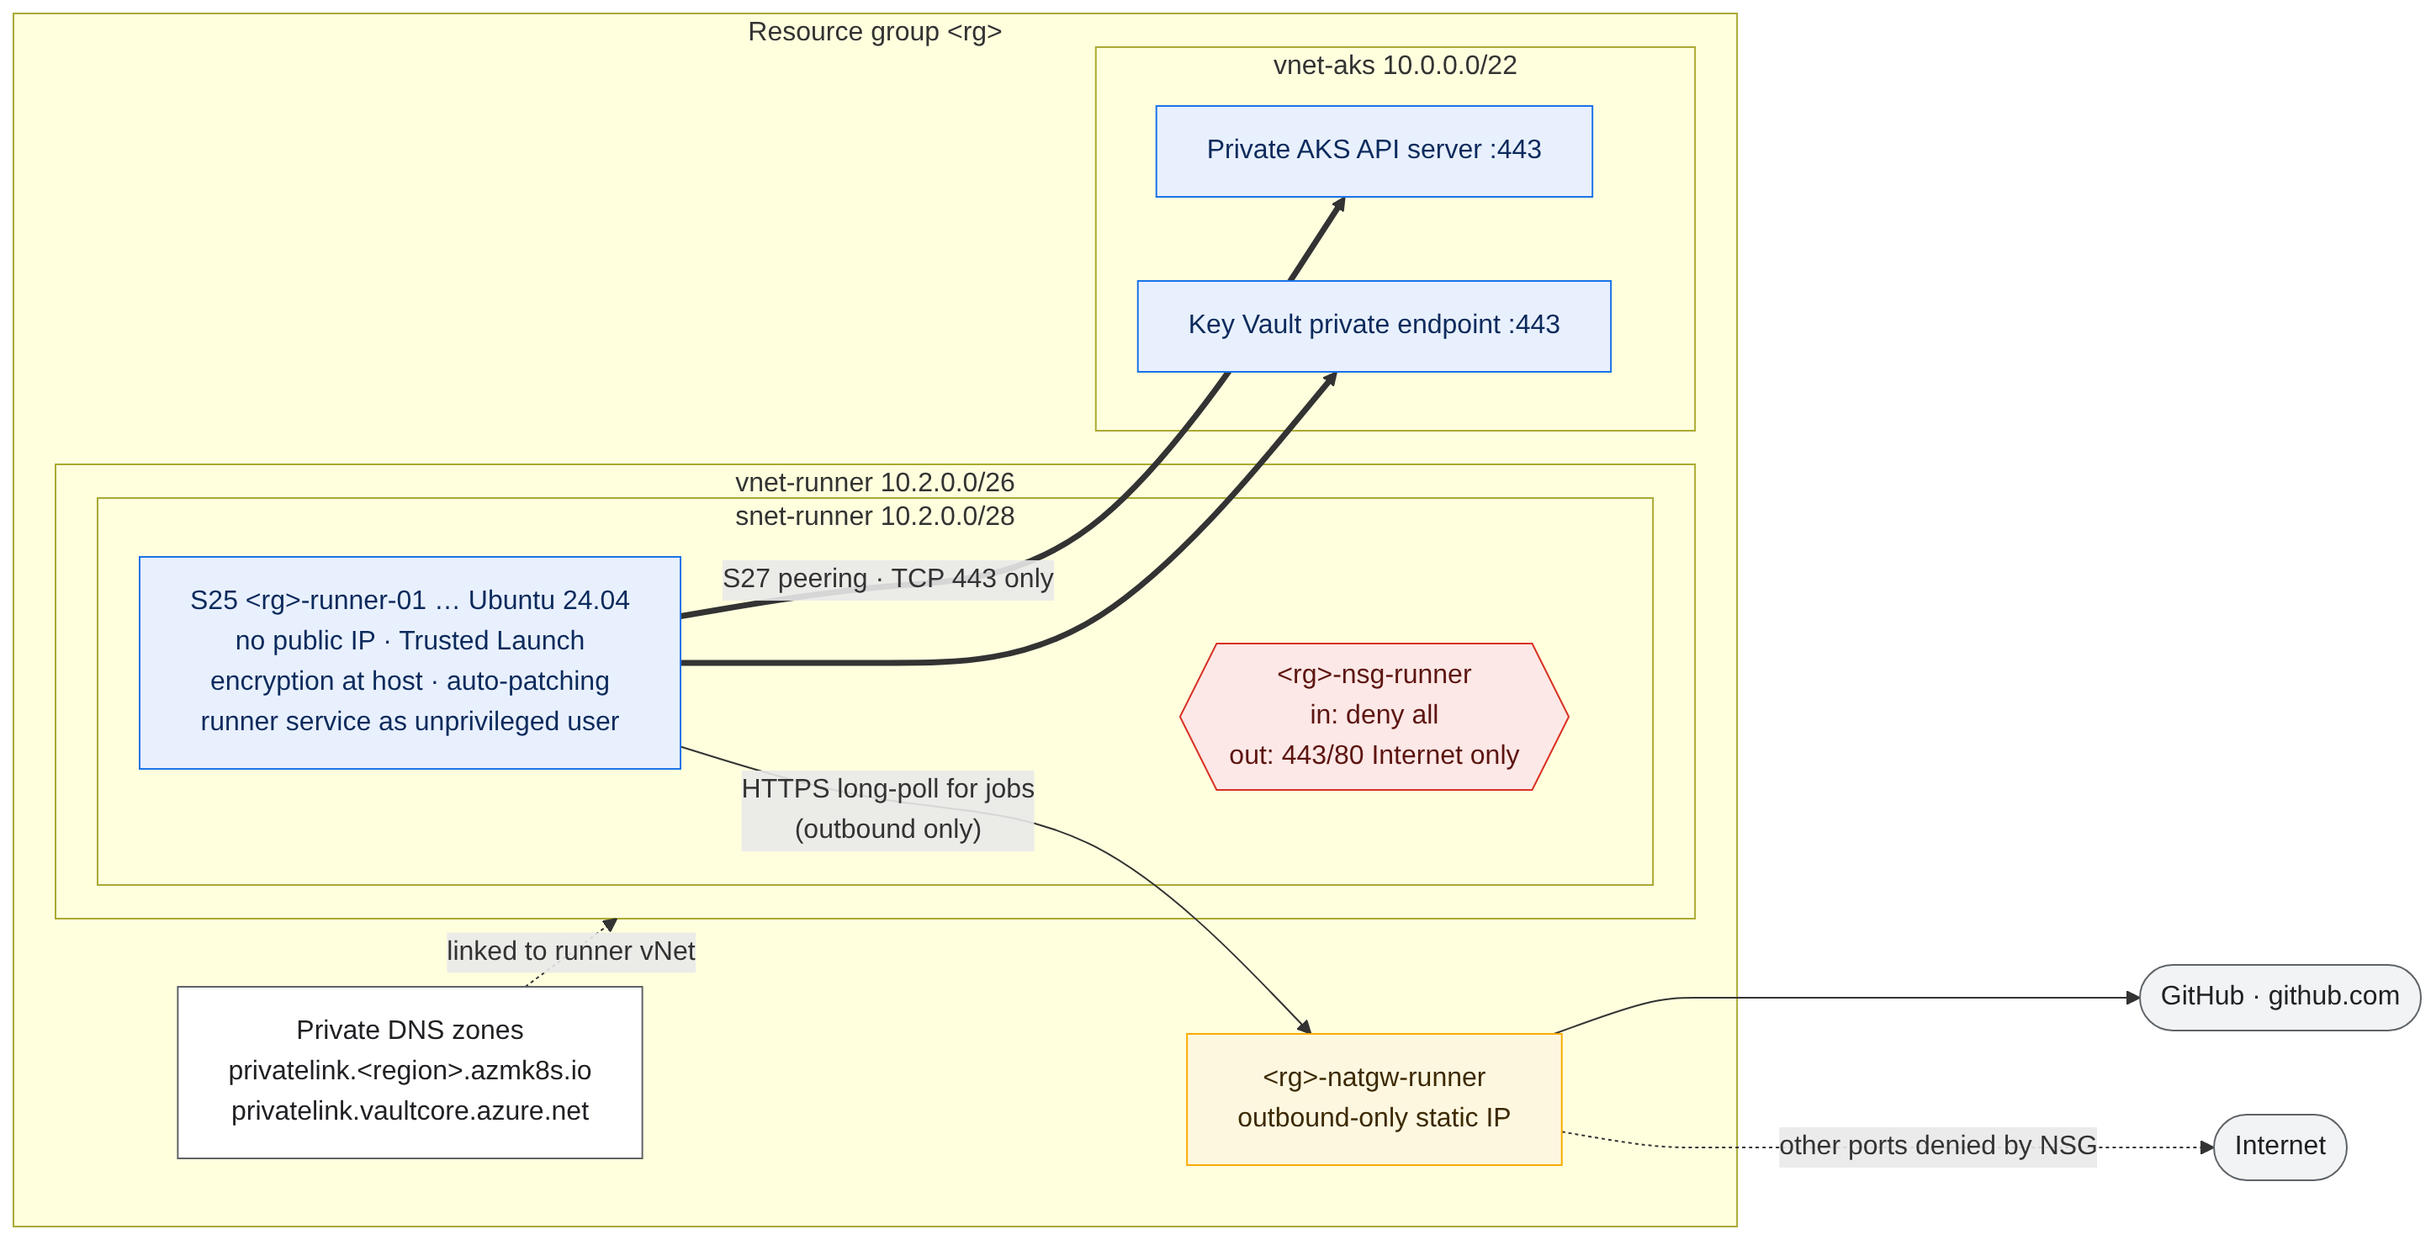
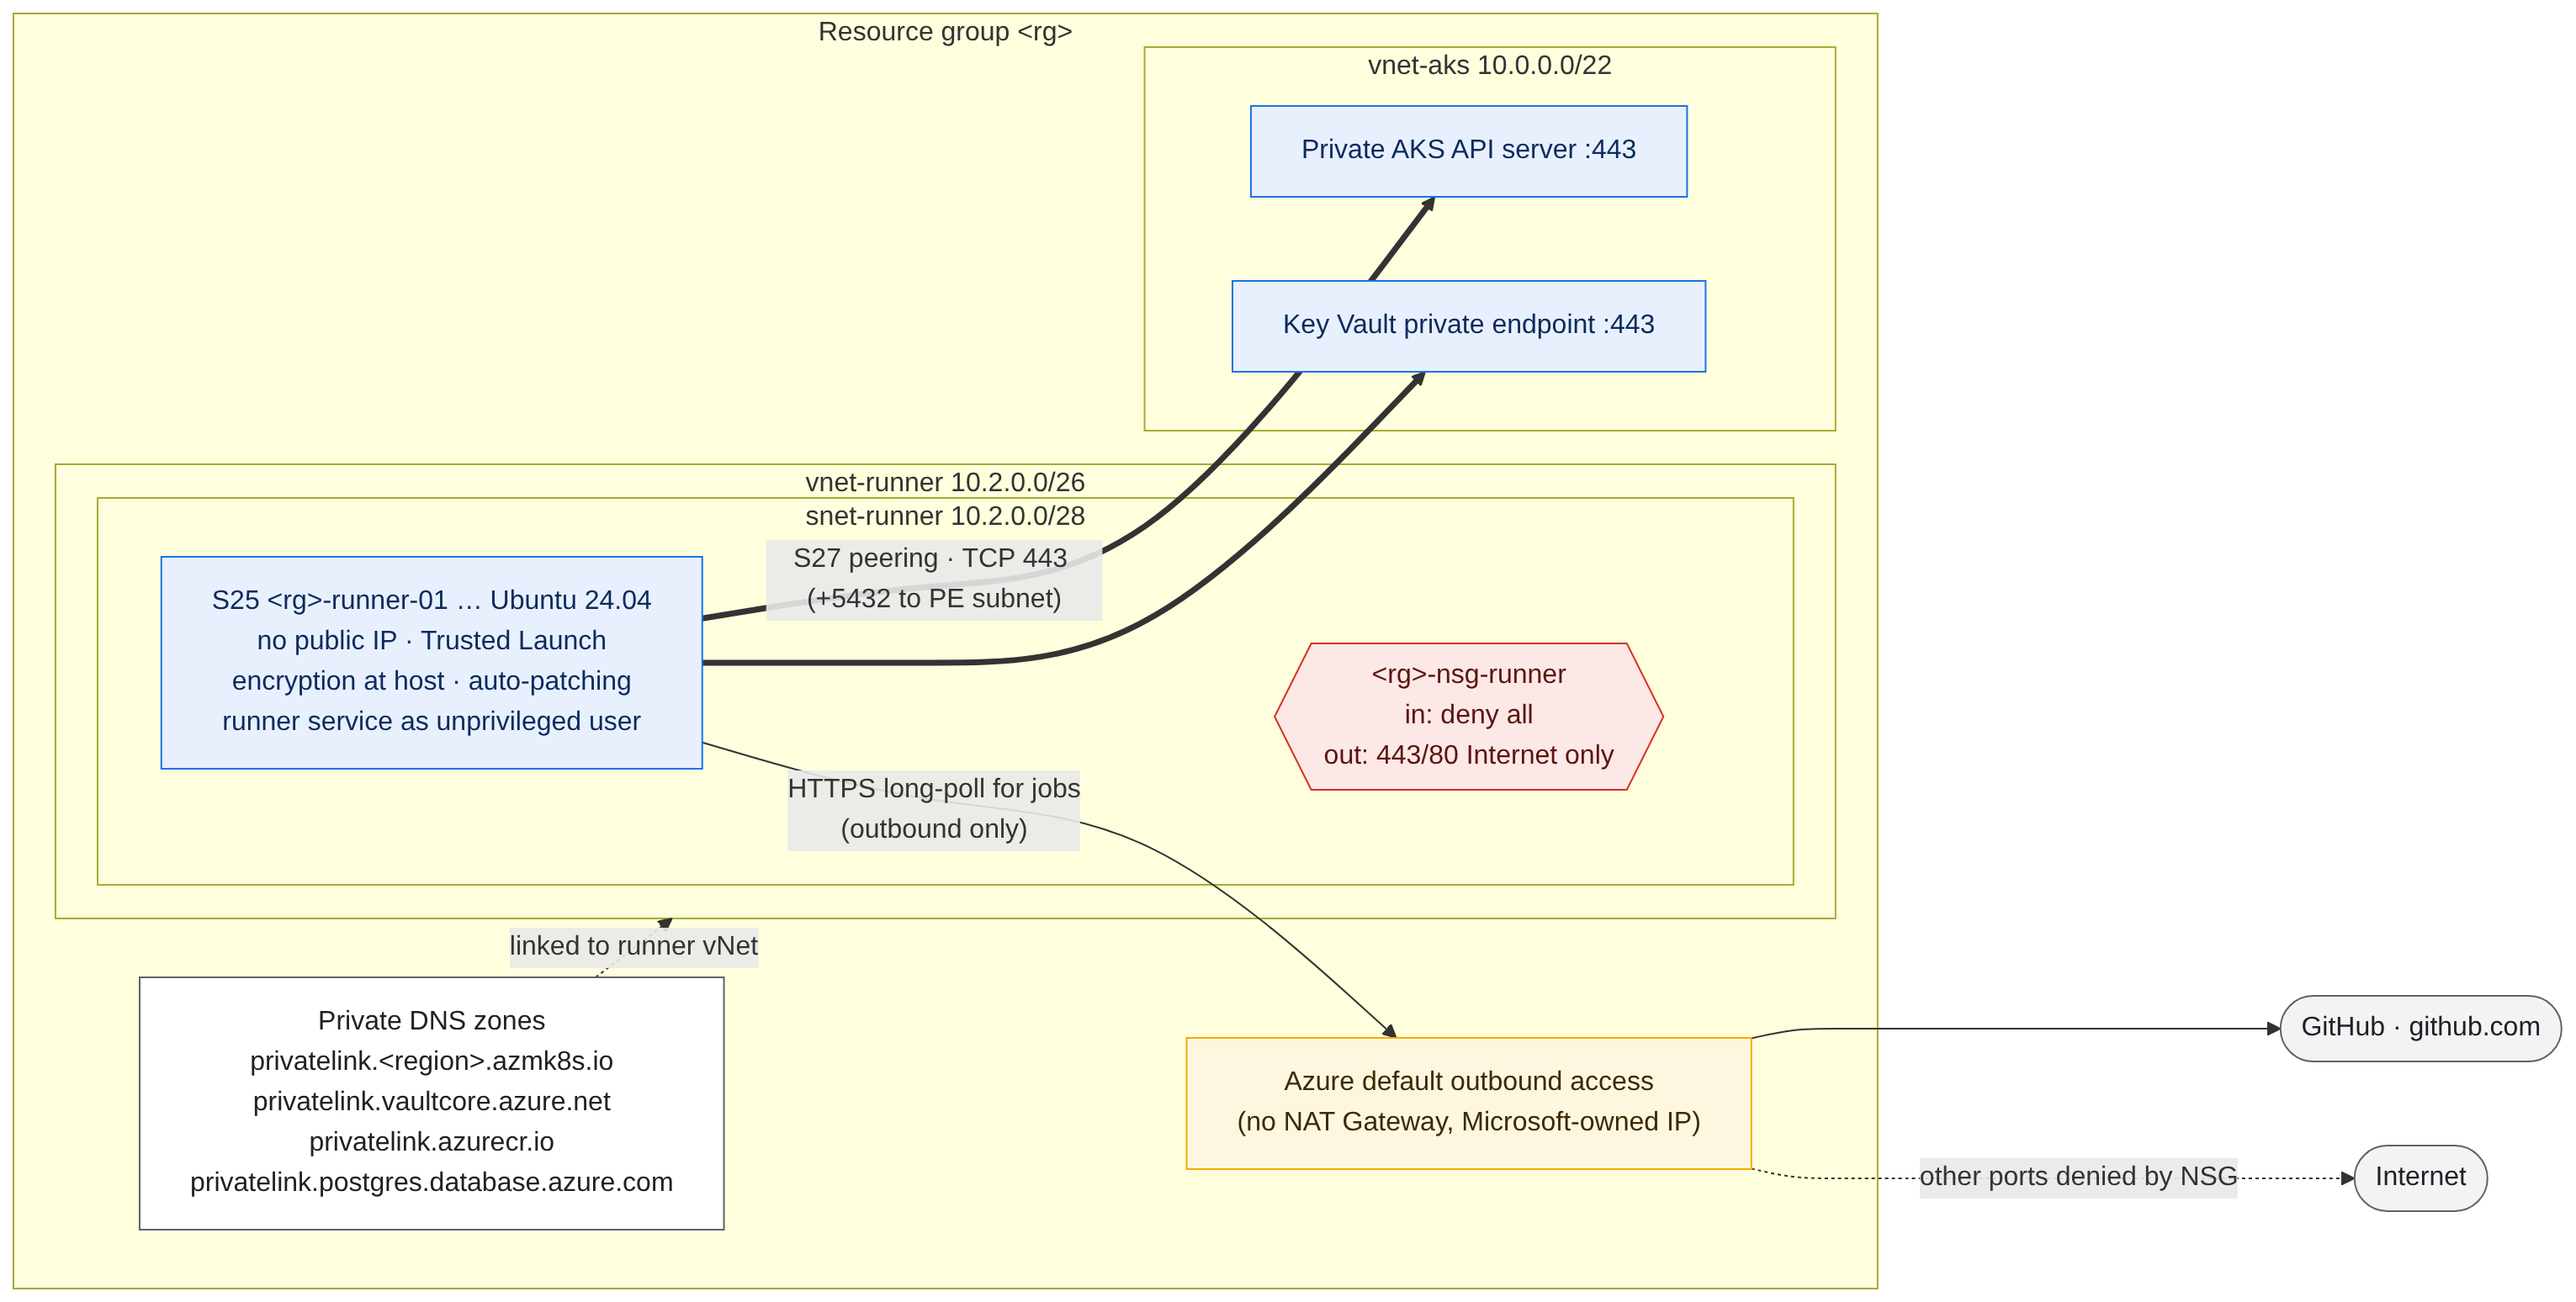
Runner: replace NAT Gateway with default outbound access
Remove the runner NAT Gateway, its public IP and associations, and make the
runner subnet non-private (default_outbound_access_enabled = true). Egress
is still limited by the runner NSG. The runner workflow deallocates and
starts existing VMs once when it switches, since the subnet flag only
reaches existing NICs after a deallocate. AKS keeps its NAT Gateway: it
does not support default outbound access for nodes.

Claude-Session: https://claude.ai/code/session_017wT8aSHQNcfDPkLX4jqqJd

diff --git a/README.md b/README.md
@@ -256,7 +256,7 @@ Then run **Actions → Deploy secure AKS environment → Run workflow**.
 <rg>-vnet-runner 10.2.0.0/26 ──peering (created by the AKS deployment)──► <rg>-vnet-aks
 └─ <rg>-snet-runner 10.2.0.0/28                                          ├─ private API server (443)
    NSG <rg>-nsg-runner: deny ALL inbound                                 └─ Key Vault private endpoint (443)
-   egress: 443/80 to Internet via <rg>-natgw-runner, everything else denied
+   egress: 443/80 to Internet via default outbound access (no NAT Gateway), everything else denied
    <rg>-runner-01 … Ubuntu 24.04, no public IP, Trusted Launch, encryption at host
 ```
 
@@ -270,7 +270,10 @@ Then run **Actions → Deploy secure AKS environment → Run workflow**.
 
 **Security design**
 * No public IP and an NSG that denies all inbound traffic, so nothing on the Internet (or in peered vNets) can connect to the runner. Break-glass access is `az vm run-command invoke` or the serial console; no SSH is exposed.
-* Outbound only through a NAT Gateway, limited by [`runner/config/runner-egress-rules.json`](runner/config/runner-egress-rules.json) to HTTPS (GitHub, Azure, Terraform registry) and HTTP (Ubuntu mirrors). Everything else to the Internet is denied. As with AKS, NSGs can't filter by FQDN; for that, put Azure Firewall in front.
+* Outbound through Azure **default outbound access**: the runner subnet is not a private subnet, and there is no NAT Gateway or public IP of its own. Egress is limited by [`runner/config/runner-egress-rules.json`](runner/config/runner-egress-rules.json) to HTTPS (GitHub, Azure, Terraform registry) and HTTP (Ubuntu mirrors). Everything else to the Internet is denied. As with AKS, NSGs can't filter by FQDN; for that, put Azure Firewall in front.
+  * The source IP is Microsoft-owned and **can change without notice**, so it can't be allow-listed (for example on the Terraform state storage account). Microsoft recommends an explicit outbound method (NAT Gateway, public IP or firewall) for deterministic egress.
+  * Existing runner VMs only switch after a stop/deallocate. The runner workflow does this automatically on the first `apply` after the change: it detects the old NAT Gateway or private subnet, then deallocates and starts the VMs.
+  * The AKS cluster keeps its NAT Gateway (`outboundType: userAssignedNATGateway`). AKS doesn't support default outbound access for nodes: it rejects a `0.0.0.0/0` route to the Internet, and the outbound type `none` requires a network-isolated cluster.
 * Trusted Launch (secure boot + vTPM), encryption at host, platform-managed OS patching, password login disabled, and the runner service runs as an unprivileged `runner` user.
 * The runner VMs have **no Azure identity or roles**. Jobs still sign in to Azure with the same GitHub OIDC credentials as GitHub-hosted runners.
 * **Registration token never stored.** Terraform only stages the runner software (cloud-init). The workflow then asks GitHub for a 1-hour registration token and registers each VM through `az vm run-command`, so the token is never in Terraform state, the plan artifact or the VM model.
@@ -411,7 +414,7 @@ terraform/
   tests/                        # offline `terraform test` suite (mocked provider)
   .terraform.lock.hcl           # pinned provider version (azurerm 5.13.0)
 runner/                         # separate Terraform root: private GitHub runner
-  main.tf                       # runner vNet, NSG, NAT GW, VMs (Trusted Launch)
+  main.tf                       # runner vNet, NSG, VMs (Trusted Launch); egress via default outbound access
   variables.tf  outputs.tf  providers.tf
   cloud-init.yaml.tftpl         # installs Azure CLI + tools, stages the runner
   scripts/register-runner.sh    # run on the VM via az vm run-command

diff --git a/docs/architecture.md b/docs/architecture.md
@@ -254,7 +254,7 @@ flowchart LR
                 VM["S25 #lt;rg#gt;-runner-01 … Ubuntu 24.04<br/>no public IP · Trusted Launch<br/>encryption at host · auto-patching<br/>runner service as unprivileged user"]:::sec
             end
         end
-        NAT["#lt;rg#gt;-natgw-runner<br/>outbound-only static IP"]:::pub
+        NAT["Azure default outbound access<br/>(no NAT Gateway, Microsoft-owned IP)"]:::pub
         subgraph AVNET["vnet-aks 10.0.0.0/22"]
             API["Private AKS API server :443"]:::sec
             PEKV["Key Vault private endpoint :443"]:::sec
@@ -347,6 +347,6 @@ The outbound rules come from [`runner/config/runner-egress-rules.json`](../runne
 | S22 | Network flow logs | Network Watcher | Optional VNet flow logs, 365-day retention, Traffic Analytics; hardened storage account | 6.4 – 6.6 |
 | S23 | Secretless, gated pipeline | GitHub Actions | OIDC federation (no client secrets); RG-scoped roles; saved-plan apply behind required reviewers | 1 IAM (least privilege) |
 | S24 | Consistent tagging | all taggable resources | Resource group tags copied verbatim; AKS propagates them to its node resource group | Governance |
-| S25 | Private self-hosted runner | `runner/` | No public IP, all inbound denied, egress only 443/80 via NAT Gateway; Trusted Launch, encryption at host, platform patching, no password login; no Azure identity on the VM | 6 Networking · 7 Virtual Machines |
+| S25 | Private self-hosted runner | `runner/` | No public IP, all inbound denied, egress only 443/80 via Azure default outbound access (subnet not private, no NAT Gateway); Trusted Launch, encryption at host, platform patching, no password login; no Azure identity on the VM | 6 Networking · 7 Virtual Machines |
 | S26 | Secret-free runner registration | `deploy-runner.yml` | 1-hour GitHub registration token requested per run and passed via `az vm run-command`; never in Terraform state, plan artifacts or the VM model | 1 IAM |
 | S27 | Least-privilege runner reach | AKS NSG + peering | Runner vNet → AKS vNet on TCP 443 (API server, Key Vault / ACR endpoints) and TCP 5432 to the private endpoint subnet only (PostgreSQL endpoints); everything else from the runner vNet denied; private DNS zones linked so names resolve privately | 6 Networking |
